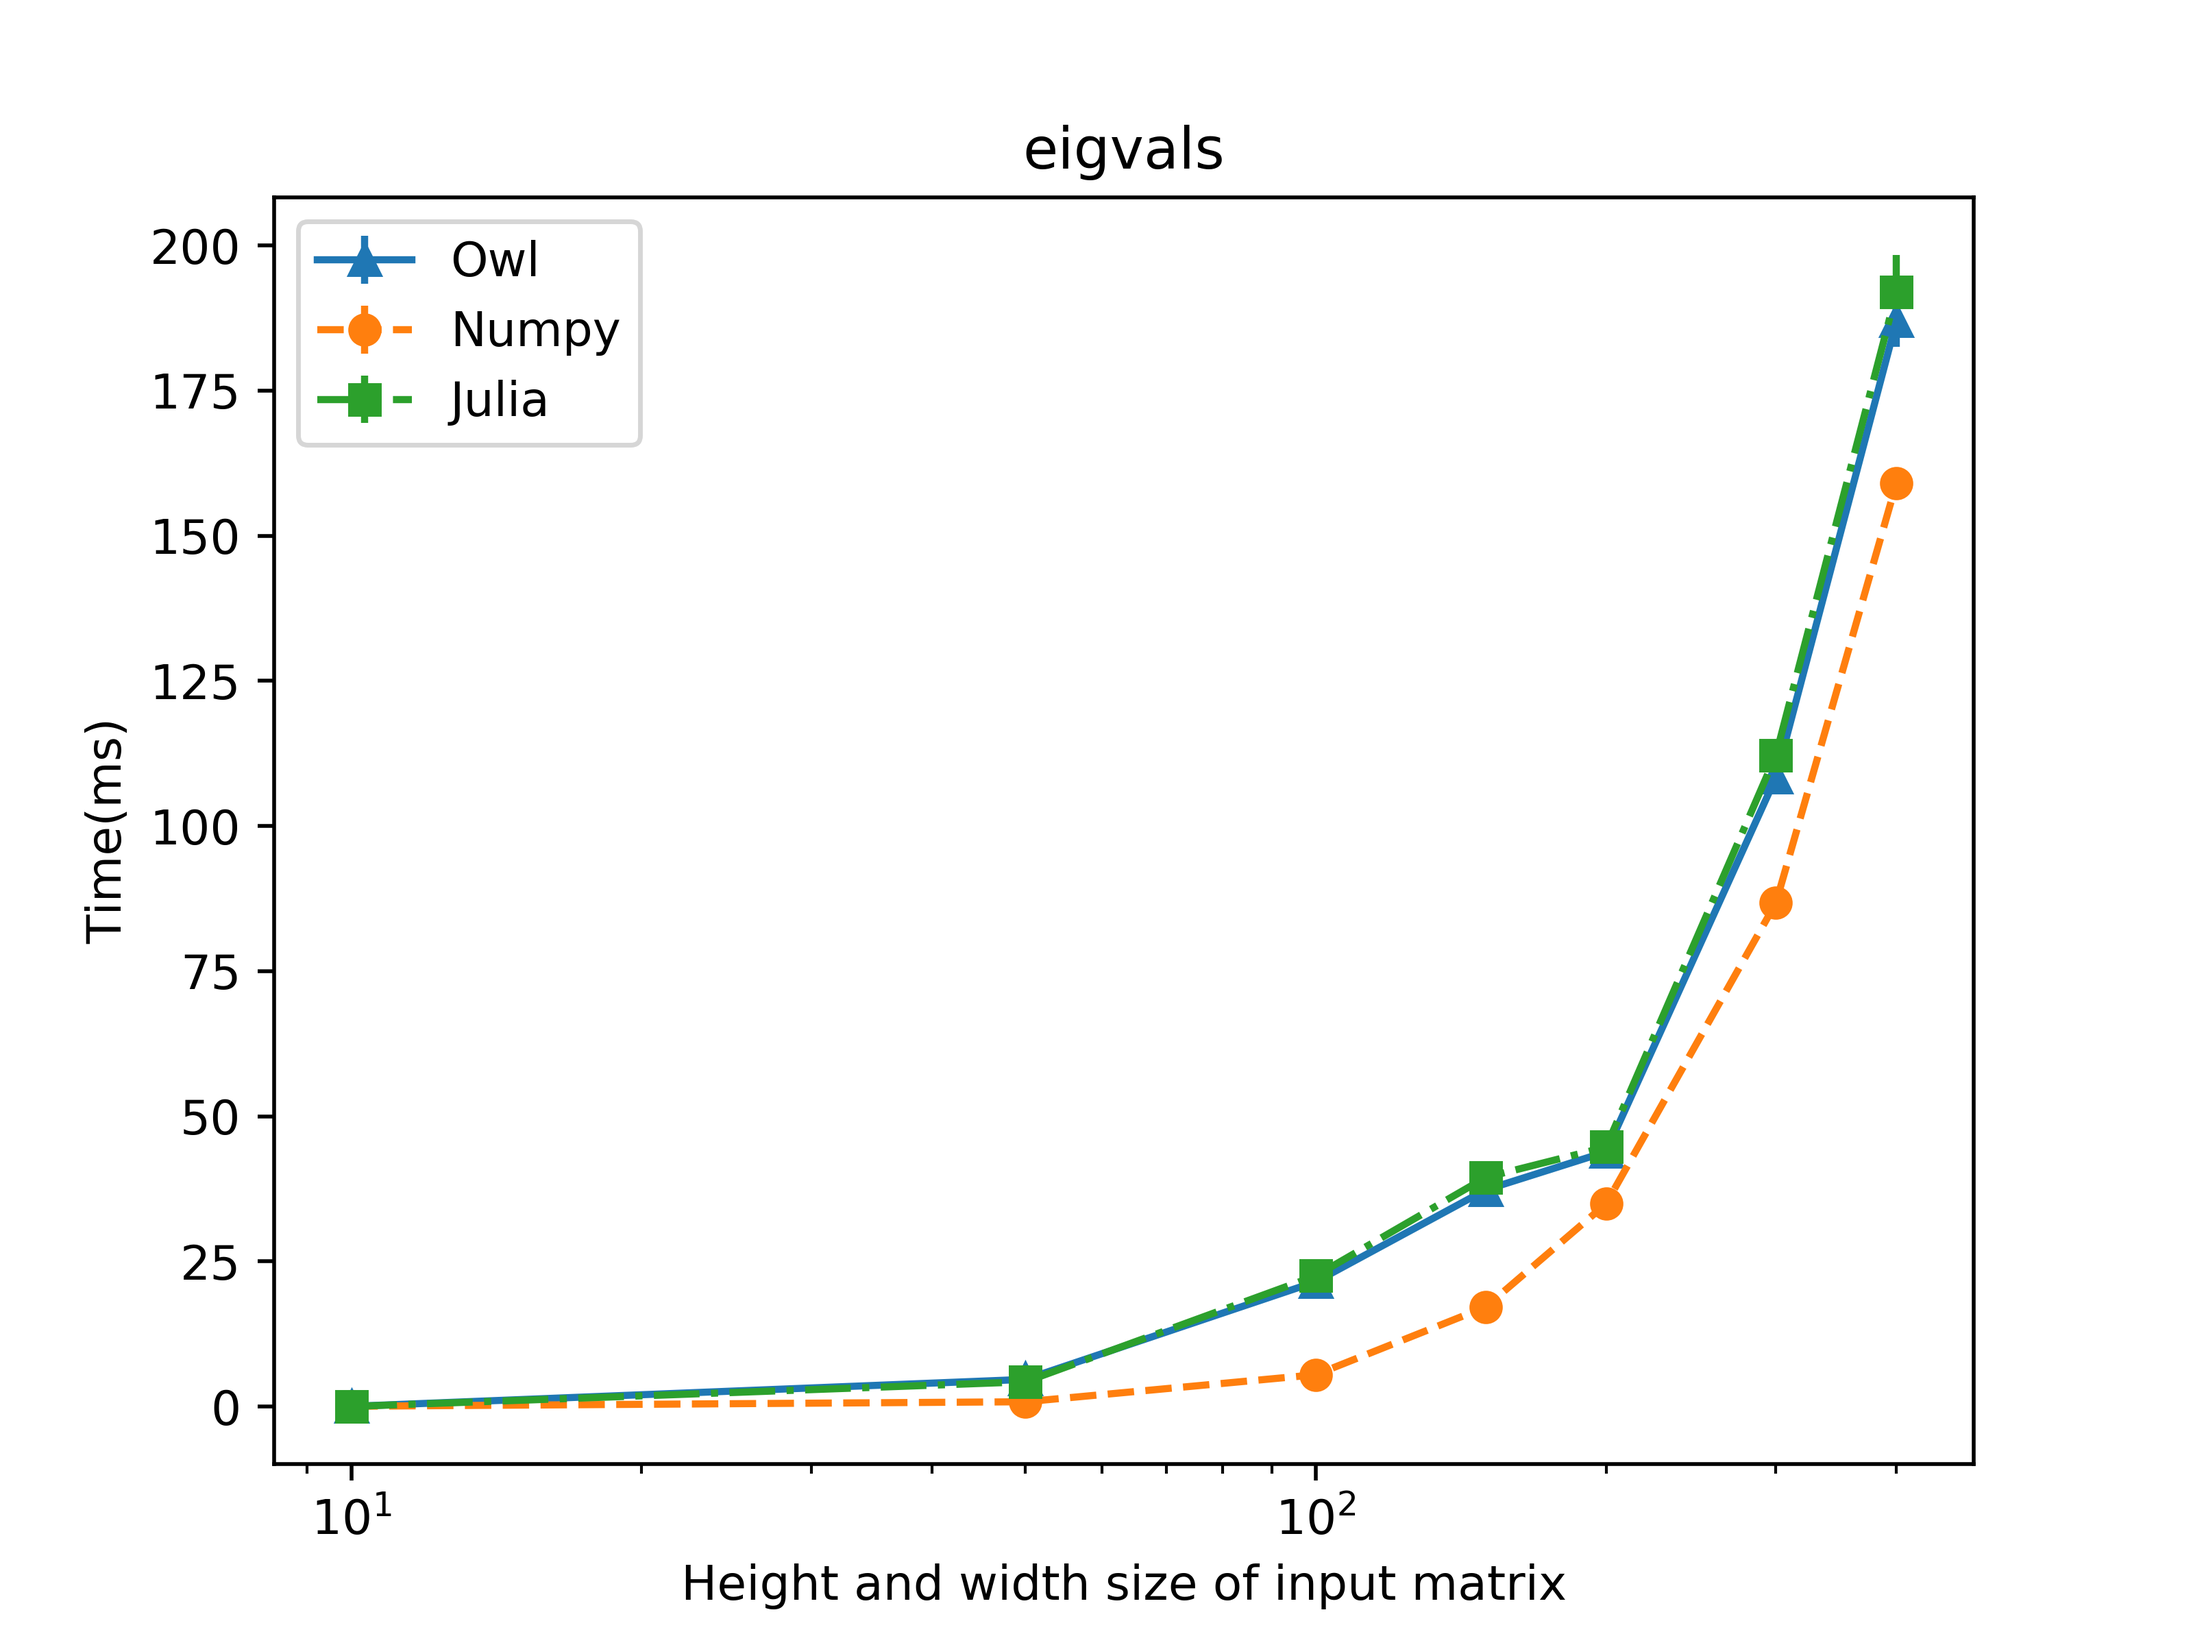
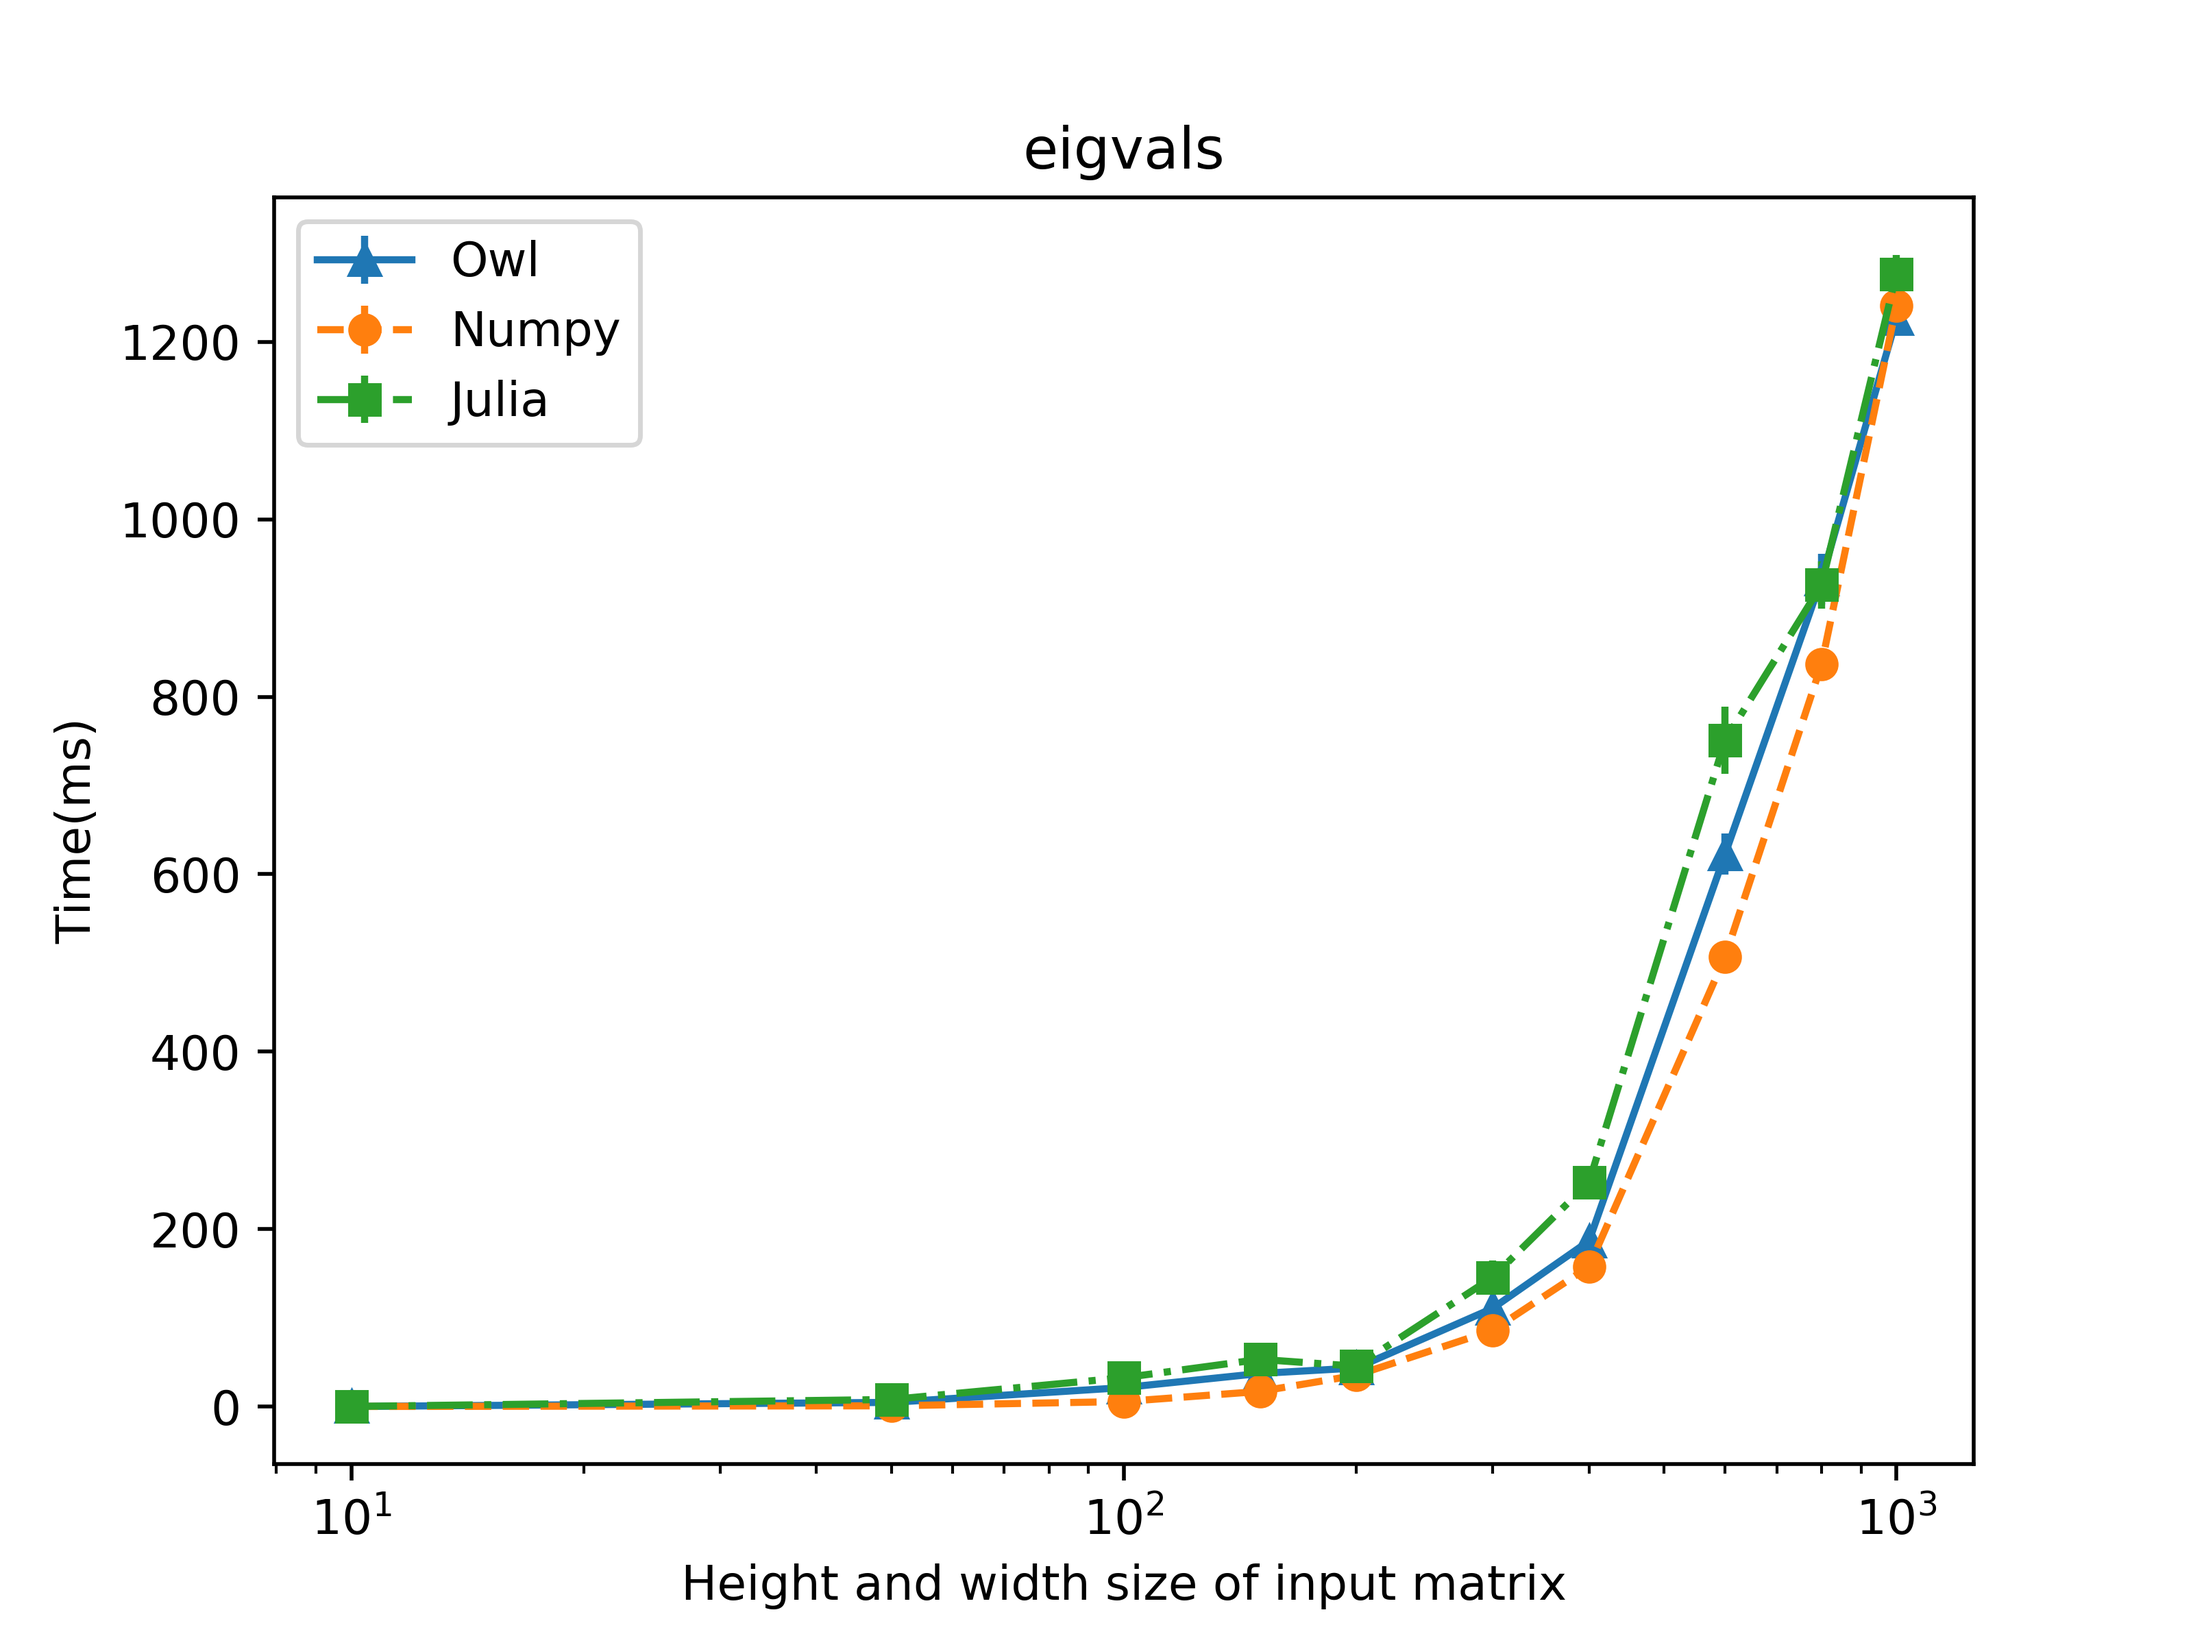
revising perftest report

diff --git a/book/chapter/perfcmp.rst b/book/chapter/perfcmp.rst
@@ -19,7 +19,7 @@ We present the results of a thorough comparison between Owl and other popular so
 
 4) Indexing and slicing, we benchmark the ``get_slice`` function in Owl. We choose two input shapes: ``[|10; 300; 3000|]`` and ``[|3000; 300; 10|]``, and apply different index combinations, e.g. ``[[-1;0]; [0;1]; []]``.
 
-5) Linear Algebra functions, including ``matmul``, ``inv``, ``eigenvals``, ``svd``, ``lu``, and ``qr``. We use square matrix of order ``n`` as input, where ``n`` increases from 10 to 400.
+5) Linear Algebra functions, including ``matmul``, ``inv``, ``eigenvals``, ``svd``, ``lu``, and ``qr``. We use square matrix of order ``n`` as input, where ``n`` increases from 10 to 1000.
 
 We use Owl version 0.4.0, Numpy version 1.14.3, and Julia version 0.6.3. Each observation is repeated for 30 times, with outliers being trimmed.
 The rest of this article presents the evaluation results.
@@ -28,6 +28,17 @@ The rest of this article presents the evaluation results.
 
 Vectorised Math Operations
 -------------------------------------------------
+
+The ndarray module in Owl includes a full set of vectorised unary and binary mathematical functions. These functions are mapped to each element in the input ndarray.
+We choose a group of representative operations considering computation type and complexity for evaluation. For example, ``log2`` and ``sub`` are not used, since we have already chosen the similar ``log`` and ``add`` operations.
+
+Also, since Numpy and Julia do not have ``sigmoid``, we calculate it using existing operations. For example, the code in Python:
+
+.. code-block:: python
+
+  def sigmoid(x): return 1 / (1 + np.exp(-x))
+
+The figures below show the evaluation results.
 
 .. figure:: ../figure/perf/op_eval15.png
    :width: 100%
@@ -144,6 +155,11 @@ One thing is noteworthy is that Owl's ``copy`` function is slower than the other
 Fold and Scan Operations
 -------------------------------------------------
 
+Fold and scan operations share similar interface. They both have an axis  parameter to specify along which axis of the input ndarray to perform certain type of calculation.
+A fold function, or "reduction" function as is called in some other numerical libraries, reduces one dimension of a ndarray to one, and accumulates the value along that dimension according to the applied calculation.
+Scan functions are similar, only that they do not change the shape of input.
+In this part we choose the widely used maximum, summation, and multiplication calculations for both.
+
 .. figure:: ../figure/perf/op_eval23.png
    :width: 100%
    :align: center
@@ -170,11 +186,15 @@ Fold and Scan Operations
    :alt: cumprod
 
 For fold and scan operations, except for ``max``, Owl operations are not the fastest. The performance varies for different computation.
+Similar to vectorised math operations, the fold functions of Numpy and Julia also utilise AVX/SSE to boost the performance, while in Owl they are implemented as simple ``for`` loops with varied strides. This explains the performance gap for ``sum`` and ``prod``.
 
 
 
 Repeat Operations
 -------------------------------------------------
+
+The ``repeat`` function in Owl repeats the elements in ndarray according the repetition specified by an integer array, the i-th element of which specifies the number of times that the individual entries of the i-th dimension of input ndarray should be repeated.
+``tile`` is similar, but it repeats the whole input along specified dimensions.
 
 .. figure:: ../figure/perf/op_eval28.png
    :width: 100%
@@ -186,24 +206,31 @@ Repeat Operations
    :align: center
    :alt: tile
 
-We do not include results of Julia here, since its repeat operations are orders of magnitude slower than that of Owl and Numpy. Owl has shown the advantage for repeat operations.
-
+We exclude results of Julia in the comparison, since its repeat operations are orders of magnitude slower than that of Owl and Numpy.
+Owl has shown the advantage for repeat operations. Part of the reason is that , multiple axes repeat in Numpy is implemented with multiple basic single axis repeat operation, whereas Owl has adopted an algorithm that repeats along multiple axes without generating intermediate results.
 
 
 Slicing Operation
 -------------------------------------------------
+
+Slicing is one of the most important functions in a numerical computing library.
+Owl provides basic slicing and fancy slicing. The latter supports more powerful index definition, but basic slicing is sufficient for performance evaluation.
+Basic slicing contains two functions ``get_slice`` and ``set_slice`` to retrieve and assign slice values respectively. We evaluate the get function in this section.
 
 .. figure:: ../figure/perf/op_eval29.png
    :width: 100%
    :align: center
    :alt: get_slice
 
-We apply 8 different indices for two 3-dimensional arrays in slicing, and the result shows that currently indexing and slicing in Owl still needs improving compared with Numpy and Julia.
+We apply 8 different indices for two 3-dimensional arrays in slicing, and the result shows that slicing in Owl is slower than Numpy and Julia.
 
 
 
 Linear Algebra Operations
 -------------------------------------------------
+
+Linear Algebra functions are usually categorised into matrix/vector products, decompositions, matrix eigenvalues, solving and inverting matrix, etc. In this section we choose to test multiplication, SVD/LU/QR decomposition, eigenvalue computation, and inversion functions for matrix. Since LU decomposition is not provided in Numpy, we use ``scipy.linalg.lu`` from the Scipy linear algebra library.
+The results are shown as below.
 
 .. figure:: ../figure/perf/op_eval33.png
    :width: 100%
@@ -235,5 +262,5 @@ Linear Algebra Operations
    :align: center
    :alt: eigvals
 
-
-Except for ``qr``, the performance of Owl and Julia is very close for the other regarding to linear algebra operations. Both are slightly slower than that of Numpy.
+The performance for linear algebra operations are similar, since they all call the low level LAPACK and BLAS libraries to performance the required calculation.
+As to the performance of QR decomposition, most of its time is spent in LAPACK routines. Owl's LAPACK interface passes data directly to LAPACK, while Numpy's interface implementation preprocesses the data according to different conditions, trying to reduce to improve the performance.
